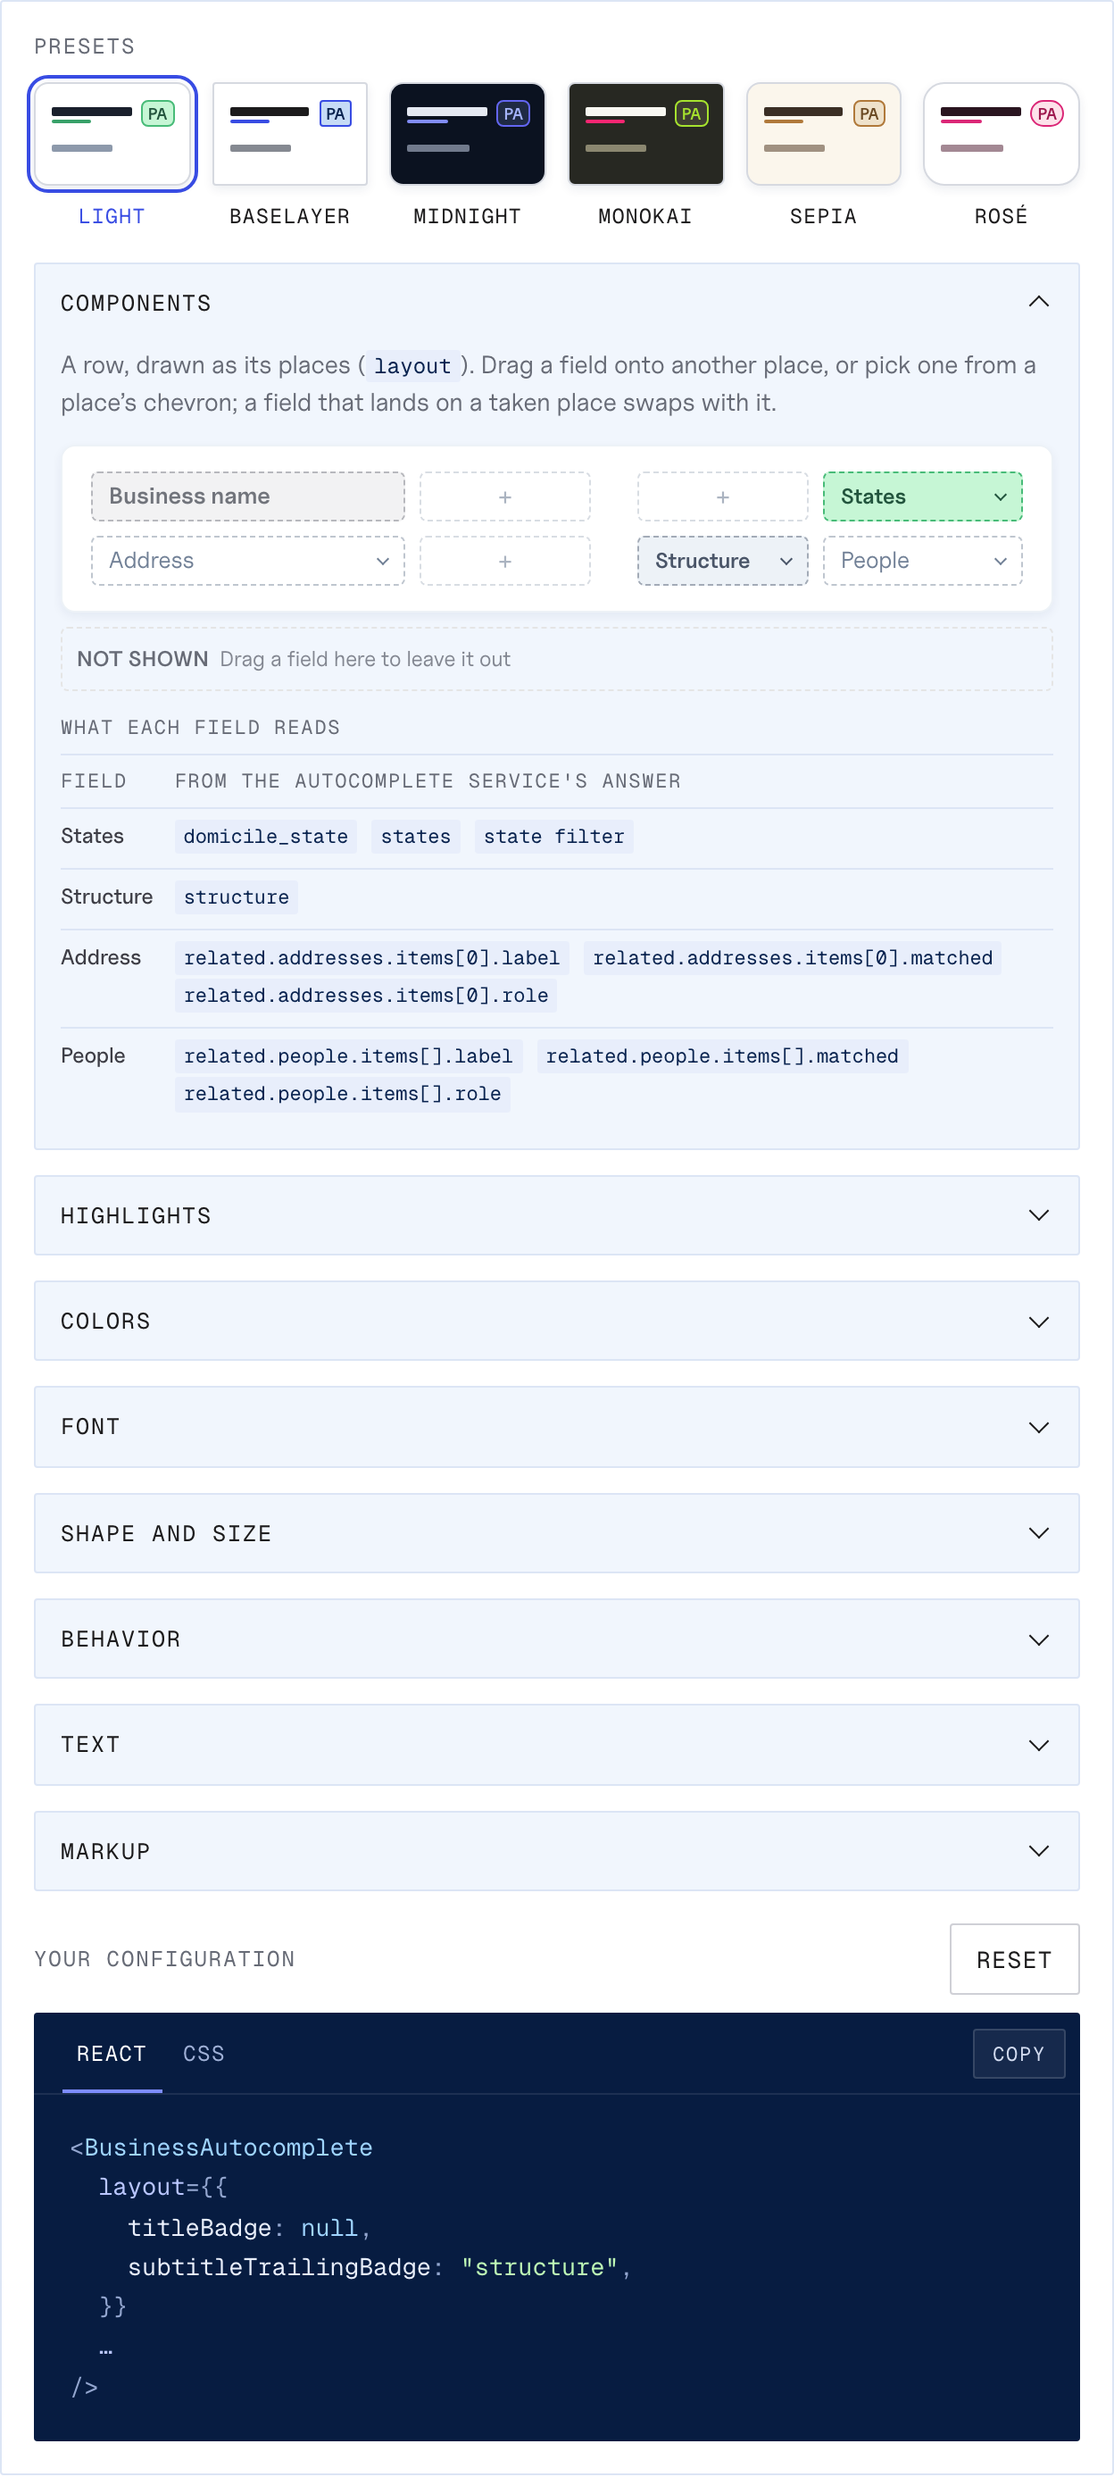
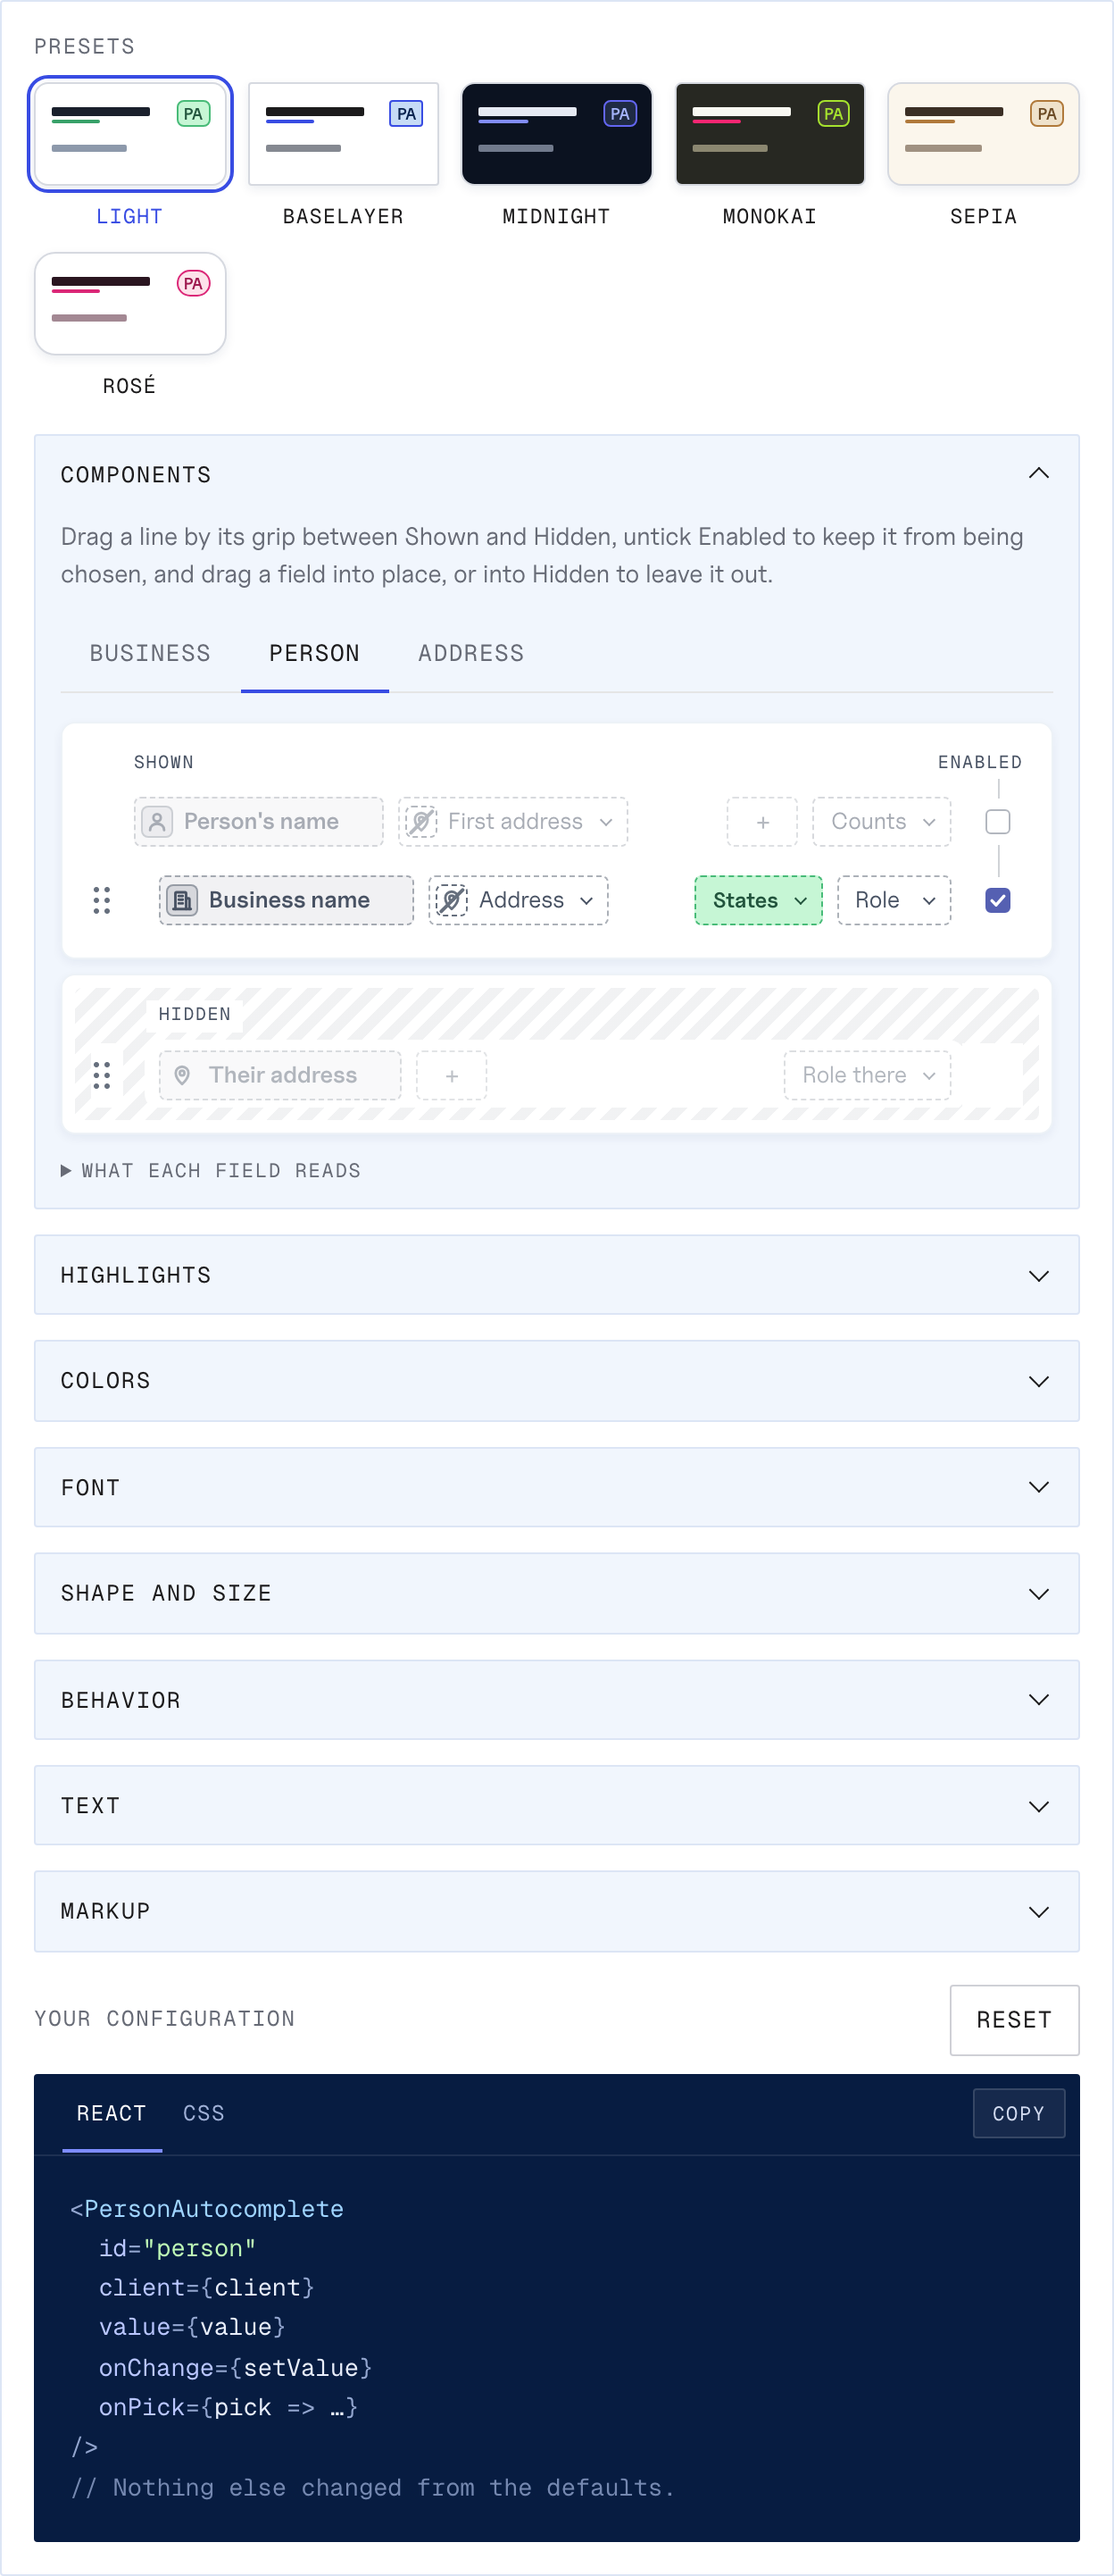
Describe the row map's Enabled column, and retake the styling panel
The row map's checkbox column now reads Enabled, ticked for a line that
can be chosen, so the demo entry and the demo guide say so: an unticked
line is drawn dimmed, as the menu draws it.

The styling panel's screenshot still showed the field editor of 0.3.0.
It is retaken on the offline sample, framed as before, on Person with the
businesses enabled and the addresses hidden: the grips, the Enabled column
and its guide, and the striped Hidden drawer.

diff --git a/docs/demo.md b/docs/demo.md
@@ -235,14 +235,14 @@ Address) that moves the form with it. Its row map draws each line of that row,
 the head first, in two drawers. Shown holds the lines the row lists, in the
 order it lists them: a line is dragged by its grip to another spot in Shown,
 the other lines making way, or into Hidden to leave it out, and back again as
-it was. A shown line's Disabled checkbox, in a column with a faint guide down
-it, keeps it from being chosen, and the line is drawn dimmed, as the menu draws
-it. Hidden, faintly striped, holds the hidden lines and the fields the row
-leaves out. A field moves only within its own line, and a segment's icon goes
-on or off from its chip: on, off with a slash, or frozen on a hidden line. Each
-line keeps to one row, scrolling sideways when it runs out of room. The rows
-pretend "harbor concr" was typed, one word in full and the next only begun, so
-the region shows its difference: whole word highlights CONCRETE, typed
+it was. A shown line's Enabled checkbox, in a column with a faint guide down it,
+marks it as one that can be chosen; an unticked line is drawn dimmed, as the
+menu draws it. Hidden, faintly striped, holds the hidden lines and the fields
+the row leaves out. A field moves only within its own line, and a segment's icon
+goes on or off from its chip: on, off with a slash, or frozen on a hidden line.
+Each line keeps to one row, scrolling sideways when it runs out of room. The
+rows pretend "harbor concr" was typed, one word in full and the next only begun,
+so the region shows its difference: whole word highlights CONCRETE, typed
 characters only its CONCR.
 
 Behavior acts on the sample rows as it would on real ones: Rows sets how many
@@ -296,7 +296,7 @@ names only the places that differ from the SDK's), for the search the form is
 on, and the CSS variables to set. Its **Reset** puts the whole panel back as it
 opened: the Light preset and every default.
 
-![The styling panel](images/demo-styling.png)
+![The styling panel on Person: the row map's grips, Enabled column and Hidden drawer](images/demo-styling.png)
 
 ![The component in the Midnight preset](images/demo-styled.png)
 

diff --git a/CHANGELOG.md b/CHANGELOG.md
@@ -143,13 +143,13 @@ release.
   scope allows, each search keeping its own text and pick, and `DEMO_API=sample
 pnpm demo` runs it on made-up data with no network. In Styling, the row map
   builds each search's row: a line is dragged by its grip between the Shown and
-  the Hidden drawers, and reordered in Shown, the others making way; a Disabled
-  checkbox, in a column with a guide down it, keeps a shown line from being
-  chosen and draws it dimmed; the faintly striped Hidden drawer holds the hidden
-  lines and the fields the row leaves out; a field is dragged into place, and a
-  segment's icon goes on or off from its chip, frozen on a hidden line; each
-  line keeps to one row, scrolling sideways when out of room. The preview draws
-  the same row, and the export writes its props.
+  the Hidden drawers, and reordered in Shown, the others making way; an Enabled
+  checkbox, in a column with a guide down it, marks which shown lines can be
+  chosen, and an unticked line is drawn dimmed; the faintly striped Hidden
+  drawer holds the hidden lines and the fields the row leaves out; a field is
+  dragged into place, and a segment's icon goes on or off from its chip, frozen
+  on a hidden line; each line keeps to one row, scrolling sideways when out of
+  room. The preview draws the same row, and the export writes its props.
 
 ### Changed
 
